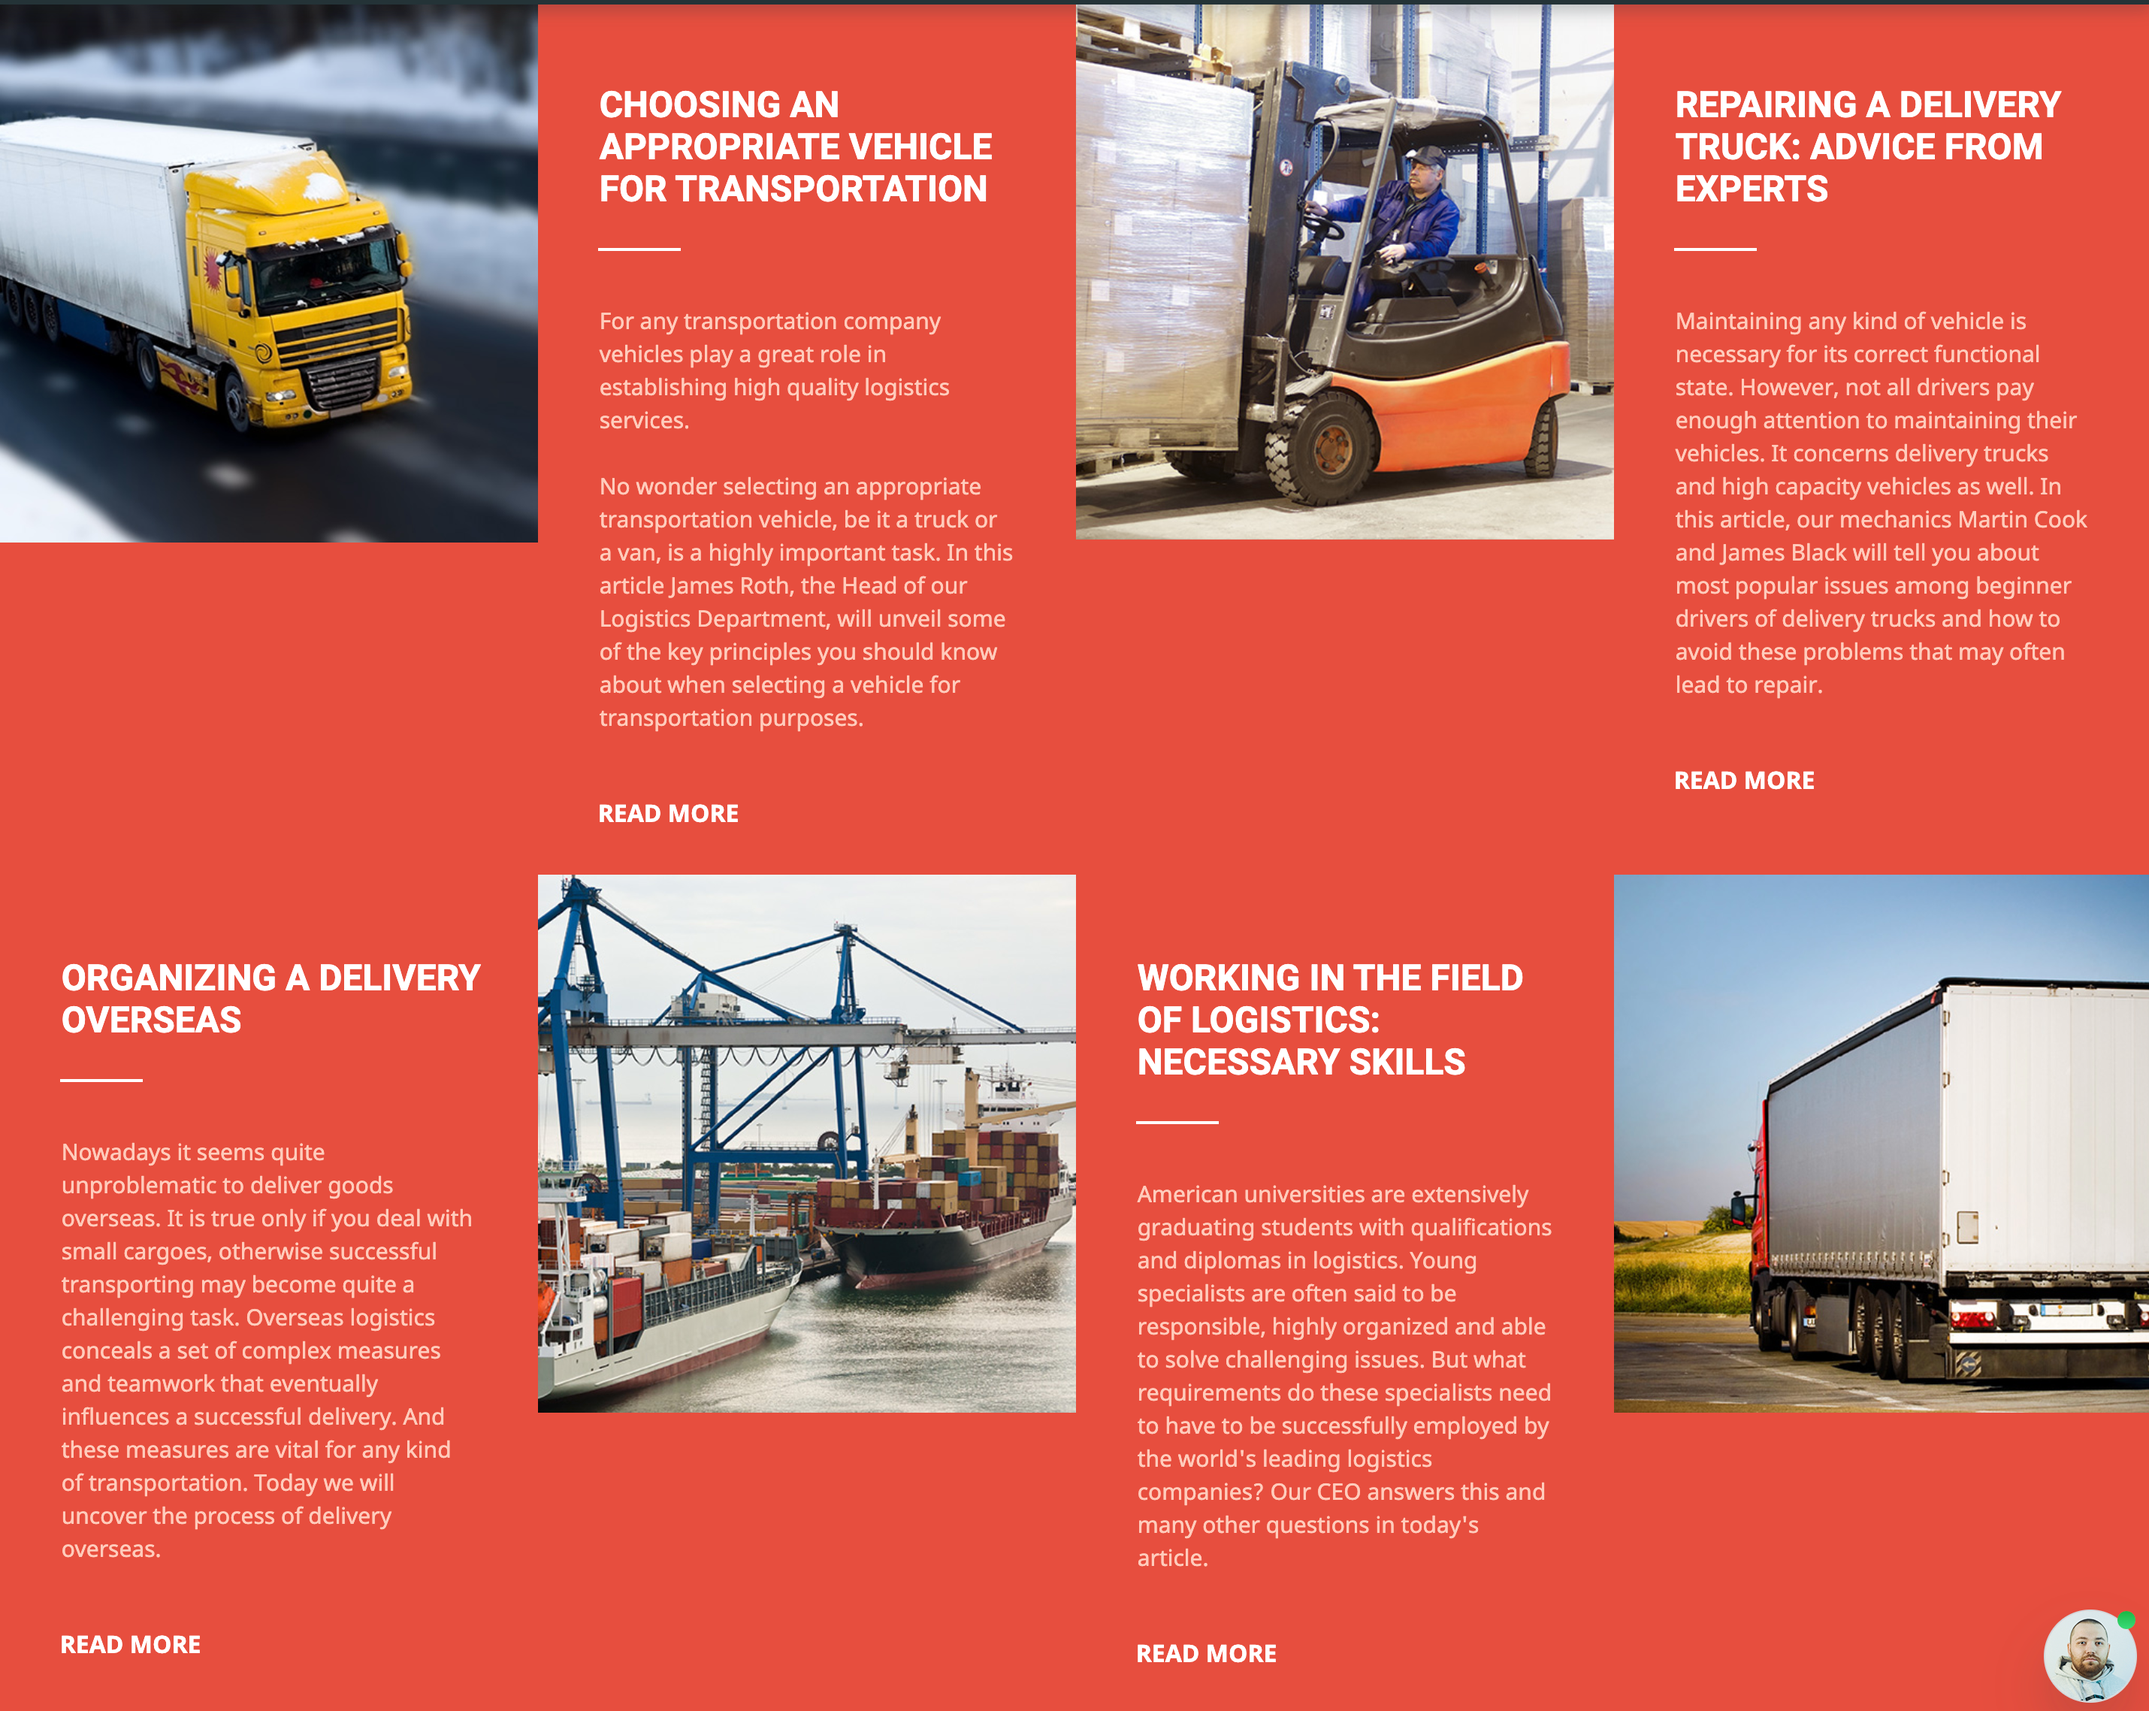
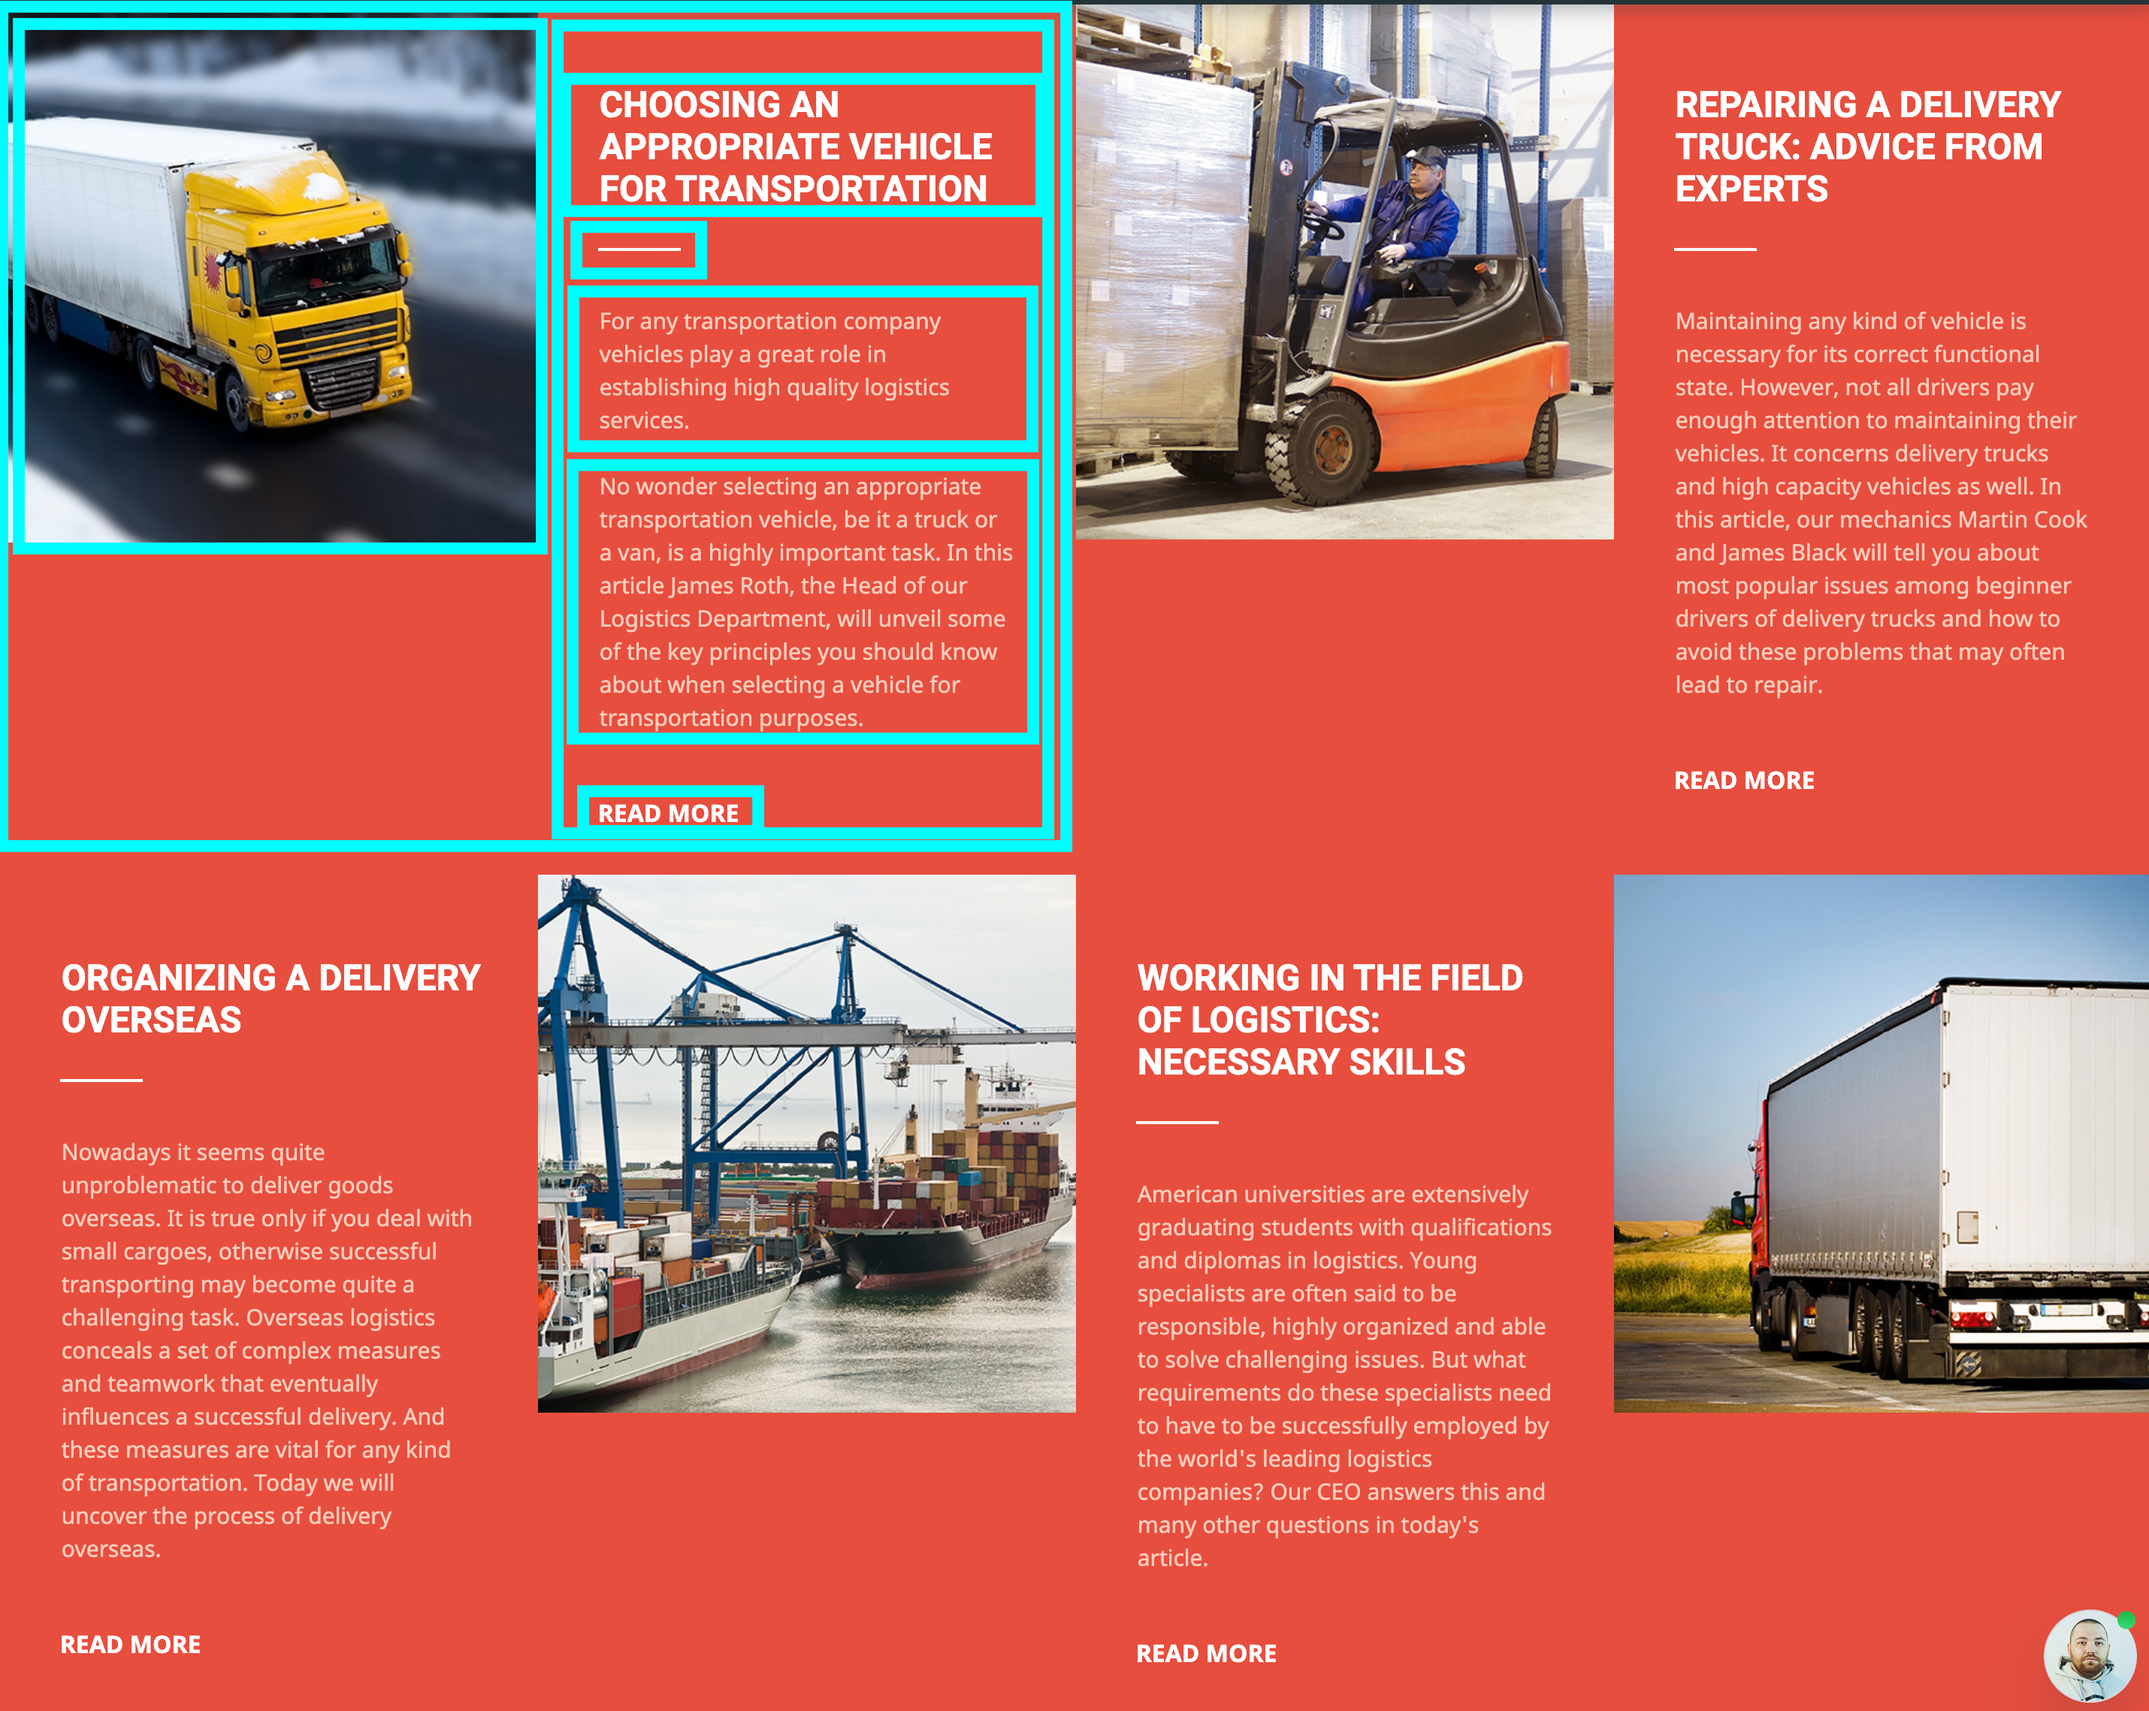
[update] float layout practice

Changed region(s): [[0.0, 0.0, 0.4979, 0.4989]]

diff --git a/layoutpractice/0609/0609.html b/layoutpractice/0609/0609.html
@@ -18,7 +18,7 @@
     </ol>  
 
     <div class="section section--flex">
-        <h2 style="font-size: 3.6rem; text-align: center;">FLEX</h2>
+        <h2 style="font-size: 3.6rem; text-align: center;">FLEX <a href="https://one.templatemonster.com/demo/85058.html" target="_black">參考網站</a></h2>
         <div class="template"><img src="./img/flex.png" alt="FLEX LAYOUT" style="width: 100%;"></div>
         <div class="banner">
             <div class="banner-left">
@@ -50,8 +50,49 @@
         </div>
     </div>
     <div class="section section--float">
-        <h2 style="font-size: 3.6rem; text-align: center;">FLoat</h2>
+        <h2 style="font-size: 3.6rem; text-align: center; margin-bottom: 1.5rem;">FLoat <a href="https://www.templatemonsterpreview.com/demo/58552.html">參考網站</a></h2>
         <div class="template"><img src="./img/float.png" alt="float LAYOUT" style="width: 100%;"></div>
+        <div class="blog">
+            <div class="blog__cardWrap">
+                <div class="blog__card">
+                    <div class="blog__card__img-box"><img src="./img/float-img_1.jpg" alt=""></div>
+                    <div class="blog__card-txt">
+                        <h2 class="blog__card__title">CHOOSING AN APPROPRIATE VEHICLE FOR TRANSPORTATION</h2>
+                        <div class="blog__card__article">
+                            <p class="u-margin-b-big">For any transportation company vehicles play a great role in establishing high quality logistics services.</p>
+                            <p>No wonder selecting an appropriate transportation vehicle, be it a truck or a van, is a highly important task. In this article James Roth, the Head of our Logistics Department, will unveil some of the key principles you should know about when selecting a vehicle for transportation purposes.</p>
+                        </div>
+                        <a href="#" class="btn btn--blog">READ MORE</a>
+                    </div>
+                </div>
+                <div class="blog__card">
+                    <div class="blog__card__img-box"><img src="./img/float-img_2.jpg" alt=""></div>
+                    <div class="blog__card-txt">
+                        <h2 class="blog__card__title">REPAIRING A DELIVERY TRUCK: ADVICE FROM EXPERTS</h2>
+                        <p class="blog__card__article">Maintaining any kind of vehicle is necessary for its correct functional state. However, not all drivers pay enough attention to maintaining their vehicles. It concerns delivery trucks and high capacity vehicles as well. In this article, our mechanics Martin Cook and James Black will tell you about most popular issues among beginner drivers of delivery trucks and how to avoid these problems that may often lead to repair.</p>
+                        <a href="#" class="btn btn--blog">READ MORE</a>
+                    </div>
+                </div>
+            </div>
+            <div class="blog__cardWrap">
+                <div class="blog__card">
+                    <div class="blog__card-txt blog__card-txt--right">
+                        <h2 class="blog__card__title">REPAIRING A DELIVERY TRUCK: ADVICE FROM EXPERTS</h2>
+                        <p class="blog__card__article">Maintaining any kind of vehicle is necessary for its correct functional state. However, not all drivers pay enough attention to maintaining their vehicles. It concerns delivery trucks and high capacity vehicles as well. In this article, our mechanics Martin Cook and James Black will tell you about most popular issues among beginner drivers of delivery trucks and how to avoid these problems that may often lead to repair.</p>
+                        <a href="#" class="btn btn--blog">READ MORE</a>
+                    </div>
+                    <div class="blog__card__img-box blog__card__img-box--right"><img src="./img/float-img_3.jpg" alt=""></div>
+                </div>
+                <div class="blog__card">
+                    <div class="blog__card-txt blog__card-txt--right">
+                        <h2 class="blog__card__title">REPAIRING A DELIVERY TRUCK: ADVICE FROM EXPERTS</h2>
+                        <p class="blog__card__article">Maintaining any kind of vehicle is necessary for its correct functional state. However, not all drivers pay enough attention to maintaining their vehicles. It concerns delivery trucks and high capacity vehicles as well. In this article, our mechanics Martin Cook and James Black will tell you about most popular issues among beginner drivers of delivery trucks and how to avoid these problems that may often lead to repair.</p>
+                        <a href="#" class="btn btn--blog">READ MORE</a>
+                    </div>
+                    <div class="blog__card__img-box blog__card__img-box--right"><img src="./img/float-img_4.jpg" alt=""></div>
+                </div>
+            </div>
+        </div>
     </div>
     <div class="section section--table">
         <h2 style="font-size: 3.6rem; text-align: center;">Table</h2>

diff --git a/layoutpractice/0609/style/style.css b/layoutpractice/0609/style/style.css
@@ -2,7 +2,7 @@ html {
   font-size: 62.5%; }
 
 .section {
-  margin: 3rem 0; }
+  margin: 6rem 0; }
 
 .section__title {
   font-size: 4.2rem;
@@ -55,6 +55,9 @@ ol h2 {
 .heading-fifth {
   font-size: 1.41rem;
   font-weight: bold; }
+
+.u-margin-b-big {
+  margin-bottom: 3rem; }
 
 .banner {
   display: flex;
@@ -133,3 +136,92 @@ ol h2 {
       flex-grow: 0;
       margin: 0;
       flex-basis: 48.5%; } }
+
+.blog {
+  background: #e74e3e; }
+  .blog::after {
+    content: '';
+    display: block;
+    clear: both; }
+  .blog__card {
+    float: left;
+    width: 50%; }
+    .blog__cardWrap::after {
+      content: '';
+      display: block;
+      clear: both; }
+    .blog__card__img-box {
+      float: left;
+      width: 50%; }
+      .blog__card__img-box--right {
+        margin-left: -50%; }
+      .blog__card__img-box > img {
+        vertical-align: middle;
+        width: 100%;
+        object-fit: cover; }
+    .blog__card-txt {
+      overflow: hidden;
+      padding: 4.8rem;
+      padding-right: 3rem;
+      color: #fff;
+      line-height: 1.5; }
+      .blog__card-txt--right {
+        float: left;
+        padding-right: 54%; }
+    .blog__card__title {
+      font-size: 2.4rem;
+      font-weight: bold;
+      line-height: 1.2; }
+      .blog__card__title::after {
+        content: '';
+        display: block;
+        height: 0;
+        width: 0;
+        padding: .09rem 2.4rem;
+        margin: 3rem 0;
+        background: #fff; }
+    .blog__card__article {
+      font-size: 1.5rem;
+      color: rgba(255, 255, 255, 0.6);
+      margin-bottom: 3rem; }
+  @media only screen and (max-width: 768px) {
+    .blog__card {
+      float: none;
+      width: auto; }
+      .blog__card:not(:last-child) {
+        margin-bottom: 1.2rem; }
+      .blog__card__img-box {
+        float: none;
+        max-width: 510px;
+        margin: 0 auto;
+        margin-bottom: 4.5rem; }
+      .blog__card-txt {
+        float: none;
+        padding: 0 1.2rem; }
+        .blog__card-txt--right {
+          float: none;
+          width: auto;
+          padding: 0 1.2rem; }
+      .blog__card__title {
+        font-size: 2.1rem; }
+      .blog__card__article {
+        font-size: 1.5rem; } }
+
+.btn:link, .btn:visited {
+  display: inline-block;
+  text-decoration: none;
+  font-size: 1.5rem;
+  color: #000; }
+
+.btn--blog:link, .btn--blog:visited {
+  font-size: 1.6rem;
+  color: #fff;
+  font-weight: bold;
+  transition: color .6s; }
+
+.btn--blog:hover {
+  color: #333; }
+
+@media only screen and (max-width: 768px) {
+  .btn--blog {
+    font-size: 1.6rem; } }

diff --git a/layoutpractice/0609/scss/component/_float.scss b/layoutpractice/0609/scss/component/_float.scss
@@ -1,0 +1,103 @@
+.blog {
+    background: rgb(231,78,62);
+    @include clear;
+    
+    &__card {
+        float: left;
+        width: 50%;
+
+
+        &Wrap {
+            @include clear;
+        }
+
+        &__img-box {
+            float: left;
+            width: 50%;
+
+            &--right {
+                margin-left: -50%;
+            }
+            > img {
+                vertical-align: middle;
+                width: 100%;
+                object-fit: cover;
+            }
+        }
+
+        &-txt {
+            overflow: hidden;
+            padding: 4.8rem;
+            padding-right: 3rem;
+            color: #fff;
+            line-height: 1.5;
+
+            &--right {
+                float: left;
+                padding-right: 54%;
+            }
+        }
+
+
+
+        &__title {
+            font-size: 2.4rem;
+            font-weight: bold;
+            line-height: 1.2;
+
+            &::after {
+                content: '';
+                display: block;
+                height: 0;
+                width: 0;
+                padding: .09rem 2.4rem;
+                margin: 3rem 0;
+                background: #fff;
+            }
+        }
+
+        &__article {
+            font-size: 1.5rem;
+            color: rgba(255,255,255,.6);
+            margin-bottom: 3rem;
+        }
+    }
+
+    @include respond(768px) {
+        &__card {
+            float: none;
+            width: auto;
+
+            &:not(:last-child) {
+                margin-bottom: 1.2rem;
+            }
+
+            &__img-box {
+                float: none;
+                max-width: 510px;
+                margin: 0 auto;
+                margin-bottom: 4.5rem;
+            }
+    
+            &-txt {
+                float: none;
+                padding: 0 1.2rem;
+
+                &--right {
+                    float: none;
+                    width: auto;
+                    padding: 0 1.2rem;
+                }
+            }
+    
+    
+            &__title {
+                font-size: 2.1rem;
+            }
+    
+            &__article {
+                font-size: 1.5rem;
+            }
+        }
+    }
+}

diff --git a/layoutpractice/0609/scss/component/_btn.scss b/layoutpractice/0609/scss/component/_btn.scss
@@ -1,0 +1,30 @@
+.btn {
+    &:link,
+    &:visited {
+        display: inline-block;
+        text-decoration: none;
+        font-size: 1.5rem;
+        color: #000;
+    }
+
+    &--blog {
+        &:link,
+        &:visited {
+            font-size: 1.6rem;
+            color: #fff;
+            font-weight: bold;
+            transition: color .6s;
+        }
+        &:hover {
+            color: #333;
+        }
+    }
+
+
+
+    @include respond(768px) {
+        &--blog {
+            font-size: 1.6rem;
+        }
+    }
+}

diff --git a/layoutpractice/0609/scss/abstracts/_mixin.scss b/layoutpractice/0609/scss/abstracts/_mixin.scss
@@ -1,3 +1,11 @@
 @mixin respond($width) {
     @media only screen and (max-width: $width) { @content }
+};
+
+@mixin clear {
+    &::after {
+        content: '';
+        display: block;
+        clear: both;
+    }
 }

diff --git a/layoutpractice/0609/scss/main.scss b/layoutpractice/0609/scss/main.scss
@@ -3,8 +3,10 @@
 
 @import "base/base";
 @import "base/typography";
+@import "base/utilites";
 
 
 @import "component/flex";
 @import "component/float";
 @import "component/table";
+@import "component/btn";

diff --git a/layoutpractice/0609/scss/base/_utilites.scss b/layoutpractice/0609/scss/base/_utilites.scss
@@ -1,0 +1,10 @@
+.u-margin-b {
+
+    &-mid {
+        // margin-bottom: 2.1rem;
+    }
+
+    &-big {
+        margin-bottom: 3rem;
+    }
+}

diff --git a/layoutpractice/0609/scss/base/_base.scss b/layoutpractice/0609/scss/base/_base.scss
@@ -3,7 +3,7 @@ html {
 }
 
 .section {
-    margin: 3rem 0;
+    margin: 6rem 0;
 }
 .section__title {
     font-size: 4.2rem;
